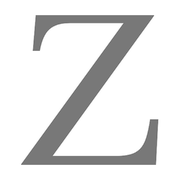
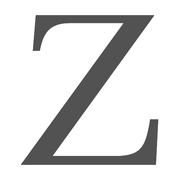
Panel telefona uygulama olarak kurulabiliyor
public/panel.webmanifest ve panel düzeninde appleWebApp metadata'sı; iOS'ta
"Ana Ekrana Ekle" ile tarayıcı çubuğu olmadan açılıyor.

Manifest yalnızca panel sayfalarına bağlandı — kök düzene koysaydık
müşteriler vitrini kurduğunda start_url onları panele düşürürdü. scope
"/panel" olduğu için uygulamadan vitrine geçilirse Safari'de açılıyor.

Next yalnızca modern mobile-web-app-capable etiketini basıyor; iOS 15.4
öncesi sürümler sadece apple- önekli olanı tanıdığı için o da elle eklendi.
viewportFit "cover" bilerek kullanılmadı: çentikli ekranlarda içerik durum
çubuğunun altına girip panel üst barını gizliyordu.

İkonlar build-brand-assets.py'ye eklendi, elle üretilmedi. Panel simgesi ters
renkli (koyu zemin, beyaz Z) ki vitrinin simgesinden ayrılsın. Kaynak Z'nin
alfası en fazla 209 olduğu için koyu zeminde gri çıkıyordu, alfa tepe
değerine göre normalize ediliyor. apple-touch-icon da tam opak hale getirildi;
yarı saydam kenarlar iOS'ta siyaha karşı birleşip koyu hâle bırakıyordu.

Changed region(s): [[0.1111, 0.0833, 0.8889, 0.9167]]

diff --git a/src/app/panel/(dashboard)/layout.tsx b/src/app/panel/(dashboard)/layout.tsx
@@ -1,8 +1,44 @@
+import type { Metadata, Viewport } from "next";
 import { redirect } from "next/navigation";
 
 import { PanelShell } from "@/components/panel/panel-shell";
 import { getAdminSession } from "@/lib/auth";
 import { prisma } from "@/lib/prisma";
+
+/**
+ * Panel, iOS ve Android'de "ana ekrana ekle" ile uygulama gibi kurulabiliyor.
+ *
+ * Manifest yalnızca panel sayfalarına bağlanıyor — kök düzene koysaydık
+ * müşteriler vitrini kurduğunda `start_url` onları panele düşürürdü.
+ *
+ * `appleWebApp` şart: iOS manifest'teki `display: standalone` değerine
+ * bakmıyor, tarayıcı çubuğunu ancak bu meta etiketiyle gizliyor.
+ */
+export const metadata: Metadata = {
+  title: { default: "Panel", template: "%s | Zengin Panel" },
+  manifest: "/panel.webmanifest",
+  appleWebApp: {
+    capable: true,
+    title: "Zengin Panel",
+    statusBarStyle: "default",
+  },
+  icons: {
+    apple: [{ url: "/brand/panel-icon-180.png", sizes: "180x180" }],
+  },
+  // Next yalnızca modern `mobile-web-app-capable` etiketini basıyor; iOS
+  // 15.4 öncesi sürümler sadece `apple-` önekli olanı tanıyor. Eski
+  // cihazlarda da tarayıcı çubuğu gizlensin diye elle ekliyoruz.
+  other: { "apple-mobile-web-app-capable": "yes" },
+  // Panel arama sonuçlarında çıkmamalı
+  robots: { index: false, follow: false },
+};
+
+export const viewport: Viewport = {
+  themeColor: "#101012",
+  // viewportFit "cover" bilerek YOK: çentikli ekranlarda içerik durum
+  // çubuğunun altına girip panel üst barını gizliyor. Varsayılan davranışta
+  // iOS içeriği kendisi güvenli alana oturtuyor.
+};
 
 // Middleware zaten jetonu doğruluyor ama tek savunma hattına güvenmiyoruz:
 // middleware atlanırsa (matcher hatası, doğrudan render) burası durdurur.

diff --git a/scripts/build-brand-assets.py b/scripts/build-brand-assets.py
@@ -9,7 +9,8 @@ Kaynaklar (resimler/):
   logo.svg / logo.png            kırpılmış, saydam, siyah yazı
   logo-white.png                 koyu zemin için beyaz yazı
   favicon.ico + favicon-*.png    tarayıcı sekmesi ikonları
-  apple-touch-icon.png           iOS ana ekran ikonu
+  apple-touch-icon.png           iOS ana ekran ikonu (vitrin)
+  panel-icon-*.png               yönetim paneli uygulama ikonu (koyu zemin)
   og-image.png                   sosyal medya paylaşım görseli (1200x630)
 
 Çalıştırma:  python3 scripts/build-brand-assets.py
@@ -156,11 +157,33 @@ def main() -> None:
     for size in ico_sizes:
         save_png(canvas.resize((size, size), Image.LANCZOS), OUT / f"favicon-{size}.png")
 
-    # apple-touch-icon saydam olamaz, beyaz zemin şart
+    # apple-touch-icon saydam olamaz, beyaz zemin şart.
+    # convert("RGB") şart: yarı saydam kenar pikselleri kalırsa iOS onları
+    # siyaha karşı birleştirip Z'nin etrafında koyu bir hâle bırakıyor.
     apple = Image.new("RGBA", (180, 180), (255, 255, 255, 255))
     icon = canvas.resize((150, 150), Image.LANCZOS)
     apple.paste(icon, (15, 15), icon)
-    save_png(apple, PUBLIC / "apple-touch-icon.png")
+    save_png(apple.convert("RGB").convert("RGBA"), PUBLIC / "apple-touch-icon.png")
+
+    # --- panel uygulaması ikonu ---------------------------------------
+    # Yönetim paneli ana ekrana eklendiğinde vitrinden ayırt edilebilsin diye
+    # ters renk: koyu zemin, beyaz Z. iOS için tamamen opak.
+    # make_white alfayı olduğu gibi taşıyor; kaynak "Z" gri çizildiği için
+    # alfası en fazla ~209. Koyu zemine beyaz basınca harf gri çıkıyordu.
+    # Gövde tam opak olsun diye alfayı kendi tepe değerine göre ölçekliyoruz;
+    # kenar yumuşatması oranını koruyor.
+    white_z = make_white(canvas)
+    peak = max(white_z.getchannel("A").getextrema()[1], 1)
+    white_z.putalpha(
+        white_z.getchannel("A").point(lambda a: min(255, round(a * 255 / peak)))
+    )
+
+    for size in (180, 192, 512):
+        pad = round(size * 0.18)
+        panel = Image.new("RGBA", (size, size), (16, 16, 18, 255))
+        inner = white_z.resize((size - pad * 2, size - pad * 2), Image.LANCZOS)
+        panel.paste(inner, (pad, pad), inner)
+        save_png(panel.convert("RGB").convert("RGBA"), OUT / f"panel-icon-{size}.png")
 
     ico_path = PUBLIC / "favicon.ico"
     canvas.resize((256, 256), Image.LANCZOS).save(

diff --git a/DURUM.md b/DURUM.md
@@ -270,6 +270,31 @@ Bu kural iki kez derlemeyi kırdı.
 
 ---
 
+## Panel telefona kurulabiliyor (PWA)  ✅ (2026-08-09)
+
+`public/panel.webmanifest` + panel düzeninde `appleWebApp` metadata'sı.
+Kurulum adımları SETUP.md'de.
+
+- Manifest **yalnızca panel sayfalarına** bağlı. Kök düzene koysaydık
+  müşteriler vitrini kurduğunda `start_url` onları panele düşürürdü
+- `scope: "/panel"` — uygulamadan vitrine geçilirse Safari'de açılıyor
+- Next sadece modern `mobile-web-app-capable` etiketini basıyor; iOS 15.4
+  öncesi için `apple-mobile-web-app-capable` elle eklendi (`metadata.other`)
+- `viewportFit: "cover"` bilerek **yok** — çentikli ekranlarda içerik durum
+  çubuğunun altına girip panel üst barını gizliyordu
+- Panele `robots: noindex` eklendi (zaten robots.txt'te kapalıydı, artık
+  sayfa düzeyinde de)
+
+**İkonlar `build-brand-assets.py`'de üretiliyor**, elle eklenmedi:
+- `panel-icon-180/192/512.png` — koyu zemin, beyaz Z. Vitrinin beyaz zeminli
+  simgesinden ayırt edilsin diye ters renk
+- Kaynak "Z"nin alfası en fazla 209 olduğu için koyu zeminde harf gri
+  çıkıyordu; alfa kendi tepe değerine göre normalize ediliyor
+- `apple-touch-icon.png` artık tam opak (`convert("RGB")`). Yarı saydam kenar
+  pikselleri iOS'ta siyaha karşı birleşip Z'nin etrafında koyu hâle bırakıyordu
+
+---
+
 ## Sipariş PDF çıktısı  ✅ (2026-08-09)
 
 Sipariş detayında **"Siparişi PDF oluştur"** düğmesi; yeni sekmede A4 düzenli

diff --git a/SETUP.md b/SETUP.md
@@ -241,6 +241,32 @@ sipariş bildirimleri spam klasörüne düşer ve siparişi kaçırırsınız.
 
 ---
 
+## Paneli telefona uygulama olarak kurma
+
+Panel PWA olarak kurulabilir; ayrı bir uygulama indirmeye gerek yok.
+
+**iPhone / iPad (Safari)**
+
+1. Safari'de `https://zenginsocks.com/panel` adresini açın ve giriş yapın
+2. Alttaki **Paylaş** düğmesi (kare + yukarı ok)
+3. **Ana Ekrana Ekle**
+4. Ad "Zengin Panel" gelir, **Ekle**
+
+**Android (Chrome)** — aynı adreste ⋮ menüsü → **Uygulamayı yükle**.
+
+Bilinmesi gerekenler:
+
+- **Safari'de kullanmak şart.** Chrome veya başka bir tarayıcının iOS
+  sürümünden "Ana Ekrana Ekle" yapılırsa uygulama gibi açılmaz.
+- **Bir kez daha giriş yapmanız gerekebilir.** iOS'ta ana ekran uygulaması
+  Safari'den ayrı bir çerez alanı kullanıyor. Oturum 30 gün açık kalıyor.
+- Simge koyu zeminli beyaz "Z" — vitrinin beyaz zeminli simgesinden ayrılsın
+  diye. Vitrini de kurarsanız ikisini karıştırmazsınız.
+- Uygulama içinden "Siteyi gör" bağlantısına basarsanız vitrin Safari'de
+  açılır; manifest'in kapsamı `/panel` ile sınırlı, bu bilinçli.
+
+---
+
 ## Yerel geliştirme
 
 `.env.example` dosyasını `.env` olarak kopyalayıp doldurun:
